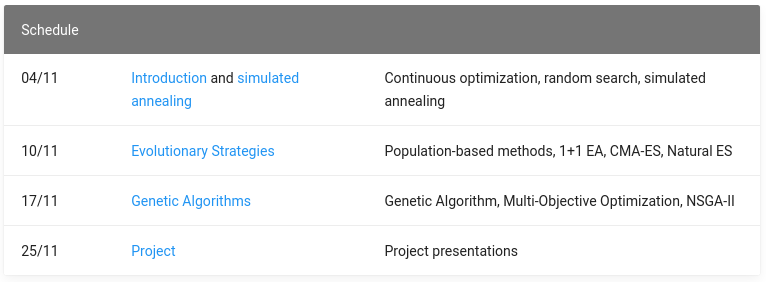
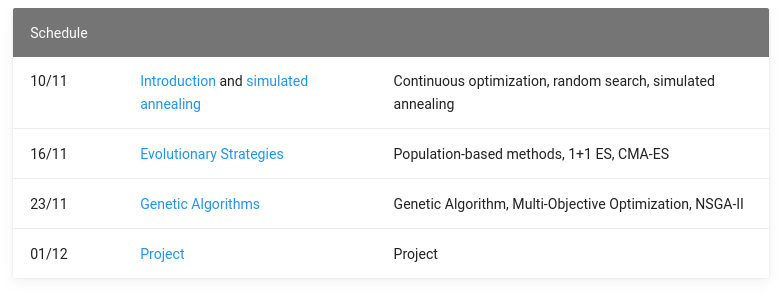
more 2021 changes

diff --git a/src/reveal/0_intro.md b/src/reveal/0_intro.md
@@ -17,7 +17,7 @@ revealOptions:
 
 Random Search, Simulated Annealing, Evolutionary Strategies, Genetic Algorithms
 
-**ISAE-SUPAERO, SD, November 2020**
+**ISAE-SUPAERO, SD**
 
 Dennis WILSON
 
@@ -111,12 +111,7 @@ Pros
 
 ### Class schedule
 
-Schedule | | |
-| --- | --- | --- |
-10/11 | [Introduction](0_intro.html) and [simulated annealing](1_sa.html) | Continuous optimization, random search, simulated annealing |
-16/11 | [Evolutionary Strategies](2_es.html) | Population-based methods, 1+1 ES, CMA-ES |
-23/11 | [Genetic Algorithms](3_ga.html) | Genetic Algorithm, Multi-Objective Optimization, NSGA-II |
-01/12 | [Project](project.html) | Project |
+<img src="static/img/schedule.png">
 
 <!--s-->
 
